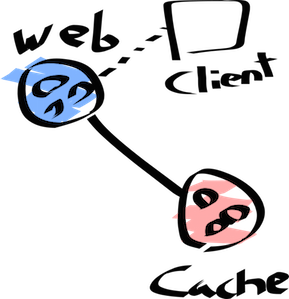
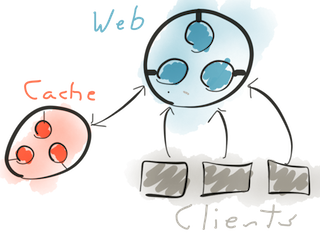
Add better images to docs.

diff --git a/docs/index.rst b/docs/index.rst
@@ -3,6 +3,10 @@
 Lighthouse Service Discovery Tool
 =================================
 
+.. image:: /static/lighthouse.png
+    :alt: Lighthouse
+    :align: left
+
 Lighthouse is a service node discovery system written in python, built with
 resilience, flexibility and ease-of-use in mind and inspired by Airbnb's
 SmartStack_ solution.  Out of the box it supports discovery via Zookeeper_ with
@@ -14,13 +18,13 @@ it in action check out the :doc:`examples` page.
 Overview
 ~~~~~~~~
 
+.. image:: /static/soa_node.png
+    :alt: Diagram of a node
+    :align: right
+
 A lighthouse setup consists of three parts running locally on each node: a load
 balancer, the `lighthouse-writer` script and (usually) the `lighthouse-reporter`
 script.
-
-.. image:: /static/soa_node.png
-    :alt: Diagram of a node
-    :align: center
 
 In a Lighthouse setup, no node's application code is aware of the existence of
 other nodes, they talk to a local port handled by an instance of the load

diff --git a/docs/examples/api_meta_cluster_with_proxies.rst b/docs/examples/api_meta_cluster_with_proxies.rst
@@ -1,6 +1,9 @@
 API Meta-Cluster Example
 ========================
 
+.. image:: /static/api_cluster.png
+    :align: right
+
 This example will demonstrate ACL-based routing where a single API is serviced
 by multiple clusters, as well as the proxies feature of the HAProxy balancer
 plugin.
@@ -13,10 +16,6 @@ The "sprockets" cluster will also communicate with a "partner" machine via a
 cluster of proxy nodes.  Regardless of how many nodes there are in the sprockets
 cluster and which nodes come and go, the only nodes to talk to the partner
 are the proxy nodes.
-
-
-.. image:: /static/api_cluster.png
-    :align: center
 
 
 Creating the partner "machine"

diff --git a/docs/examples/web_cluster_with_redis.rst b/docs/examples/web_cluster_with_redis.rst
@@ -1,12 +1,12 @@
 Simple Web Cluster Example
 ==========================
 
+.. image:: /static/simple_example.png
+    :align: right
+
 In this example we'll construct a simple system with two clusters: a webapp
 cluster serving up some basic content and a cache redis cluster used in creating
 said content.
-
-.. image:: /static/simple_example.png
-    :align: center
 
 Creating the cache cluster
 ~~~~~~~~~~~~~~~~~~~~~~~~~~
